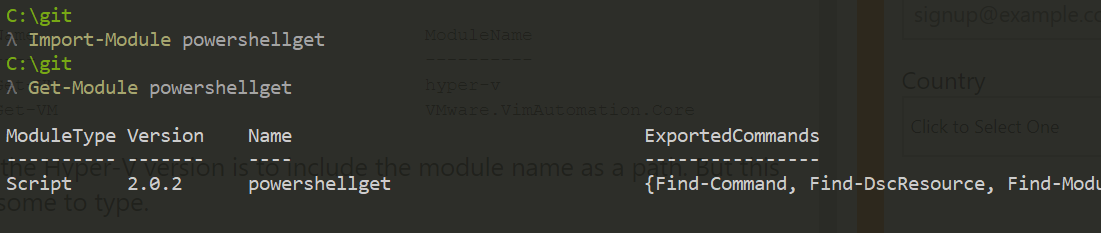
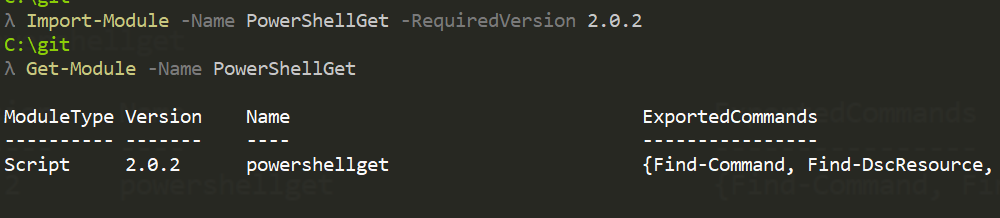
publish

diff --git a/_posts/2018-11-16-install-managed-service-identity-ps-module.md b/_posts/2018-11-16-install-managed-service-identity-ps-module.md
@@ -1,35 +1,44 @@
 ---
-title: Authenticate and query the Microsoft Graph with PowerShell
+title: Installing the AzureRM Managed Service Identity PowerShell Module
 author: Matthew Davis
 date: 2018-11-16
-excerpt: Use PowerShell to authenticate with and query the Microsoft Graph
+excerpt: Updating PowerShellGet module to enable the installation of the prerelease module for AzureRM
 categories: 
     - powershell
 tags:
     - powershell
-    - azure
-    - graph
-published: false
+    - powershellget
+    - azurerm
+published: true
 ---
 
-I wanted to do a post on using Azure Contaner Instances in a TeamCity job. I've been working mainly in AWS and have been setting Instance Policies to apply to EC2 Instances giving them access to resources such as S3 buckets without the need of storing credentials anywhere on the machines and wanted to see how this worked in Azure.
+# Intro
 
-After a bit of searching around, I had found you can apply System Assigned or User Assigned identities to an Azure VM, cool I thought, let's do this in PowerShell.
+This post will details how to install the [prerelease AzureRM Managed Service Identity PowerShell module] from the PowerShell gallery which also involved me updating the [PowerShellGet] module (currently version 2.0.2) to get the Find-Module and Get-Module Cmdlets AllowPreRelease switch (introduced in version 1.6.0).
 
+I wanted to investigate using [Azure Container Instances] in a [TeamCity] or [Jenkins] job. I've been working mainly in AWS and have been using [Instance Profiles] to apply to [EC2 Instances] giving them access to resources such as S3 buckets without the need of storing credentials anywhere on the machines and wanted to see how this worked in Azure.
+
+After a bit of searching around, I had found out about [Managed identities for Azure resources] and applying System Assigned or User Assigned identities to an Azure VM. This looked like what I wanted to do so thought I do it in PowerShell.
 
 ![VM Identity blade via the portal](/images/install-managed-service-identity-module/vm-identity.png)
 
 I fired up my console and authenticated to AzureRM.
 
+```powershell
+Add-AzureRmAccount
+```
+
 I then tried to find AzureRmUserAssignedIdentity Cmdlets, no luck. I checked for the module and it wasn't on my machine. I knew I had the latest AzureRM module because I had updated it a week ago.
 
-I searched the PowerShell Gallery for it with the Find-Module Cmdlet, still nothing so I decided to have a look on the PowerShell Gallery website.
+I searched the PowerShell Gallery for it with the Find-Module Cmdlet, still nothing so I decided to have a look on the [PowerShell Gallery website].
 
-I did find the [AzureRM.ManagedServiceIdentity] module via the search on the website and noticed it was a Prerelease version with the -AllowPreRelease switch specified for Install-Module. I've not seen this before (or come across prereleased modules before) and checking my install module and find module commands, the Prerelease switch was missing.
+I did find the module with the [AzureRM.ManagedServiceIdentity] Cmdlets via the search on the PowerShell gallery website and noticed it was a Prerelease version with the -AllowPreRelease switch specified for Install-Module. I've not seen this before (or come across prereleased modules before) and checked my install module and find module commands to find the Prerelease switch was missing. Prerelase modules were announced in December 2017 on the [PowerShell Team Blog]
 
-![Find-Module with no prerelease switch](/images/install-managed-service-identity-module/find-module.png)
+![Find-Module with no prerelease switch](/images/install-managed-service-identity-module/module-search.png)
 
-I thought I'd check to see if I had the latest version of PowerShellGet on my system as I don't remember ever updating it... and I hadn't. I was using Version 1.0.0.1 and the latest on the gallery was 2.0.2 so thought I'd install it.
+I checked to see if I had the latest version of PowerShellGet on my system as I don't remember ever updating it and I hadn't. I was using Version 1.0.0.1 and the latest on the gallery was 2.0.2 so thought I would update to it.
+
+![Showing the latest version of PowerShellget from the PowerShell gallery](/images/install-managed-service-identity-module/latest-psget-module.png)
 
 Looking through the release notes, I could see the feature was added in version 1.6.0.
 
@@ -40,6 +49,8 @@ $module = Find-Module powershellget
 $module.ReleaseNotes > releasenotes.txt
 code .\releasenotes.txt
 ```
+
+![Release notes shown in vscode](/images/install-managed-service-identity-module/release-notes1.png)
 
 I ran the Update-Module -Name powershell get but received the following error:
 
@@ -52,32 +63,26 @@ At line:1 char:1
     + FullyQualifiedErrorId : ModuleNotInstalledUsingInstallModuleCmdlet,Update-Module
 ```
 
-So had to install it with 
+So I installed with the Install-Module Cmdlet:
 
 ```powershell
 Install-Module -Name PowerShellGet -Force
 ```
 
-I then got the following warning: 
+I then got the following warning:
 
 ```powershell
 WARNING: The version '1.2.2' of module 'PackageManagement' is currently in use. Retry the operation after
 closing the applications.
 ```
 
-After exiting the console (a refreshenv didn't work), I could now see the latest module and imported it (PowerShell imports the latest version by default).
+After exiting the console (refreshenv didn't work), I could now see the latest module and imported it with the -RequiredVersion parameters (see [this post] on the order PowerShell imports modules with different versions on the system).
+
+```powershell
+Import-Module -Name PowerShellGet -RequiredVersion 2.0.2
+```
 
 ![Importing version 2.0.2 of PowerShellGet with Import-Module cmdlet](/images/install-managed-service-identity-module/ps-get-2-0-2.png)
-
-
-
-
-![Release notes shown in VSCode](/images/install-managed-service-identity-module/release-notes2.png)
-
-
-
-
-![Showing the latest version of PowerShellget from the PowerShell gallery](/images/install-managed-service-identity-module/latest-psget-module.png)
 
 Now I could see all the versions available to me on the PowerShell gallery with the following command:
 
@@ -87,14 +92,13 @@ Find-Module -Name AzureRM.ManagedServiceIdentity -AllowPrerelease -AllVersions
 
 ![Finding all the versions of the module from the gallery](/images/install-managed-service-identity-module/find-module-prerelease.png)
 
-
 And installed the latest version with:
 
 ```powershell
 Install-Module -Name AzureRM.ManagedServiceIdentity -AllowPrerelease
 ```
 
-And could see the three cmdlets with the old Get-Command:
+And could see the three cmdlets with the Get-Command:
 
 ```powershell
 Get-Command -Module AzureRM.ManagedServiceIdentity
@@ -104,8 +108,17 @@ Get-Command -Module AzureRM.ManagedServiceIdentity
 
 ## Summary
 
-That's it, I found out about the preview modules on the PowerShell gallery, updating my PowerShellGet module so I was able to find the latest ones, how to get the release notes with the Find-Module command releasenotes property and upgrading my PowerShellGet module so I could use the preview module. Now back to the original task of looking at applying the Identity to the Azure VM and seeing how it works!
+That's it, I found out about the preview modules on the PowerShell gallery, updating my PowerShellGet module so I was able to find the latest ones, how to get the release notes with the Find-Module command releasenotes property and upgrading my PowerShellGet module so I could use the preview module. Now back to the original task of looking at applying the Managed Identity to the Azure VM and seeing how it works!
 
-https://docs.microsoft.com/en-us/powershell/module/azurerm.managedserviceidentity/?view=azurermps-6.12.0
-
-[AzureRM.ManagedServiceIdentity]: https://www.powershellgallery.com/packages/AzureRM.ManagedServiceIdentity/1.0.5-preview
+[PowerShellGet]: https://www.powershellgallery.com/packages/PowerShellGet/2.0.2
+[Azure Container Instances]: https://azure.microsoft.com/en-ca/services/container-instances/
+[Instance Profiles]: https://docs.aws.amazon.com/IAM/latest/UserGuide/id_roles_use_switch-role-ec2_instance-profiles.html
+[EC2 instances]: https://aws.amazon.com/ec2/
+[TeamCity]: https://www.jetbrains.com/teamcity/
+[Jenkins]: https://jenkins.io/
+[Managed identities for Azure resources]: https://docs.microsoft.com/en-us/azure/active-directory/managed-identities-azure-resources/overview
+[PowerShell Team Blog]: https://blogs.msdn.microsoft.com/powershell/2017/12/05/prerelease-versioning-added-to-powershellget-and-powershell-gallery/
+[PowerShell Gallery website]: https://www.powershellgallery.com
+[AzureRM.ManagedServiceIdentity]: https://docs.microsoft.com/en-us/powershell/module/azurerm.managedserviceidentity/?view=azurermps-6.12.0
+[prerelease AzureRM Managed Service Identity PowerShell module]: https://www.powershellgallery.com/packages/AzureRM.ManagedServiceIdentity/1.0.5-preview
+[this post]: https://info.sapien.com/index.php/scripting/scripting-modules/which-version-does-import-module-import
